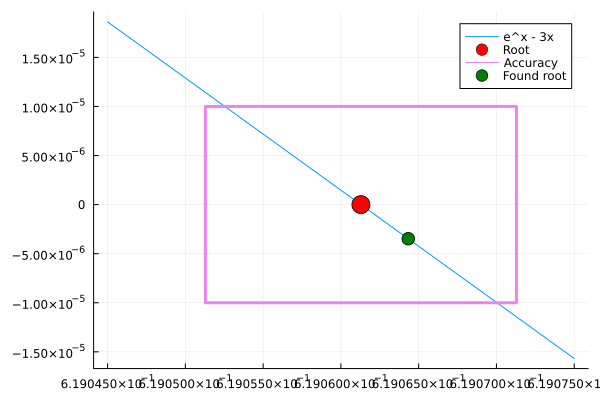
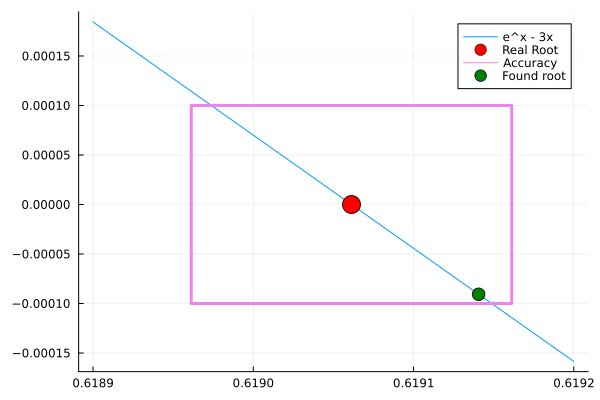
fixed ex5

diff --git a/assignment_list_3/report.tex b/assignment_list_3/report.tex
@@ -105,8 +105,8 @@ Results can be found in \textbf{Table 2.} and \textbf{Figure 2.} and \textbf{Fig
     \begin{tabular}{|l|l|l|l|l|l|}
     \hline
         \textbf{start\_range} & \textbf{end\_range} & \textbf{found root} & \textbf{f(root)} & \textbf{iterations} & \textbf{error} \\ \hline
-        0.0 & 1.0 & 0.6190643310546875 & -3.4790879874790903e-6 & 16 & 0 \\ \hline
-        1.0 & 2.0 & 1.5121307373046875 & -5.86035312810651e-6 & 16 & 0 \\ \hline
+        0.0 & 1.0 & 0.619140625 & -9.066320343276146e-5 & 9 & 0 \\ \hline
+        1.0 & 2.0 & 1.5120849609375 & -7.618578602741621e-5 & 13 & 0 \\ \hline
     \end{tabular}
     \caption{Roots of $f(x) = e^x - 3x$ calculated by bisection method}
 \end{table}
